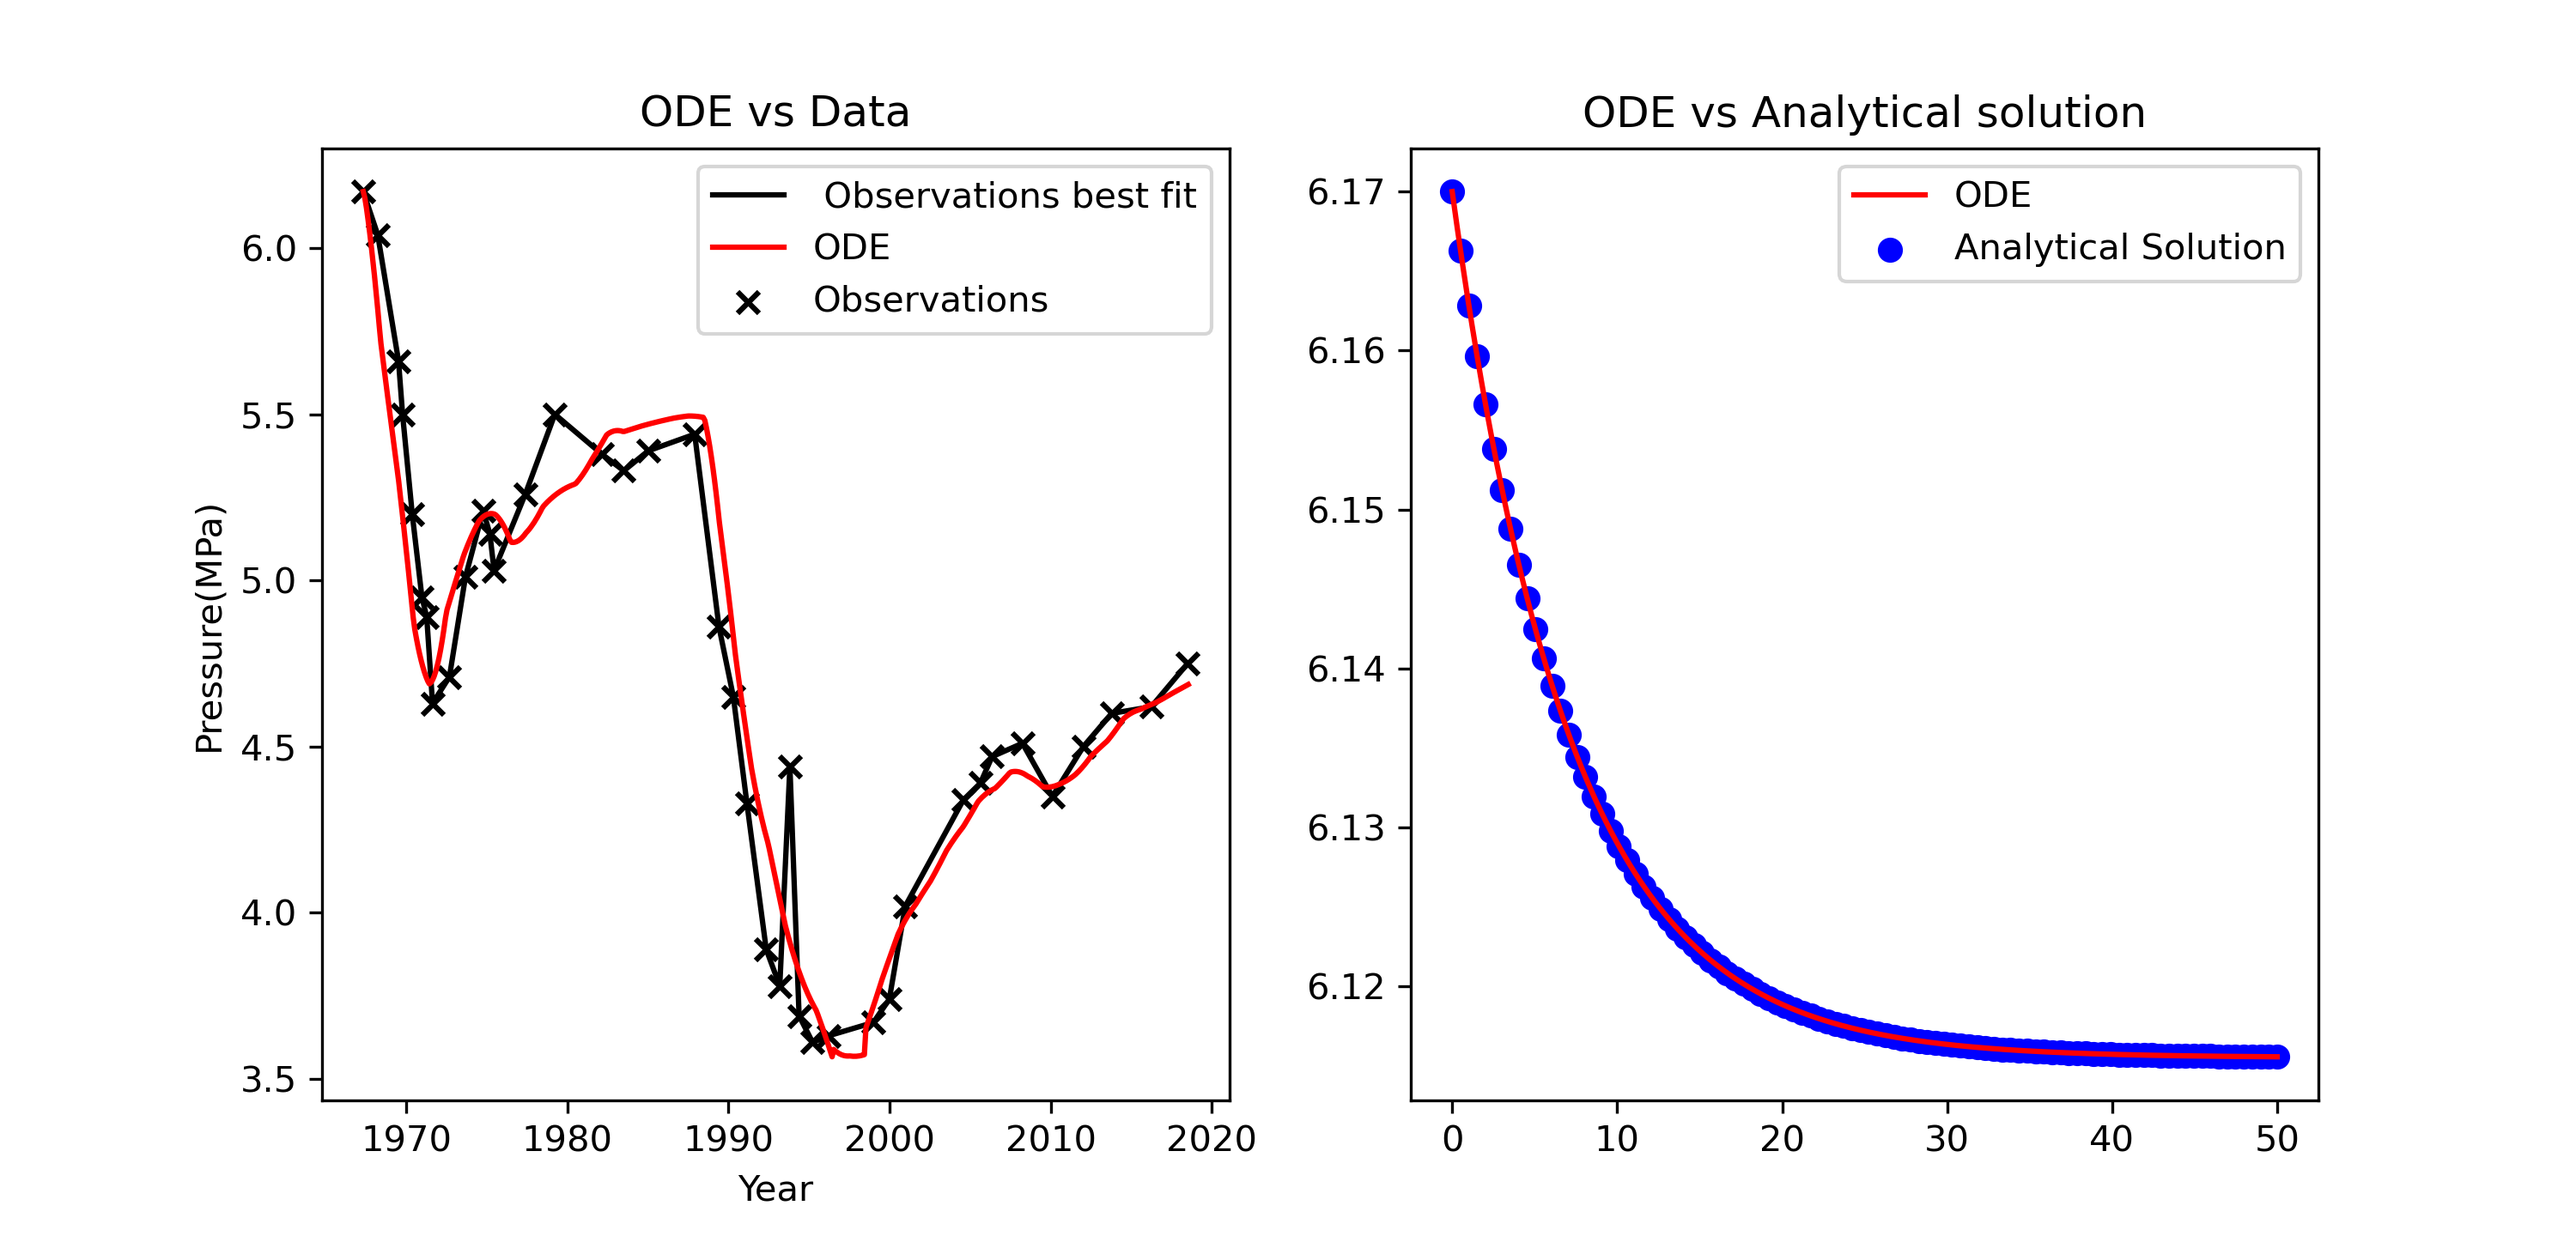
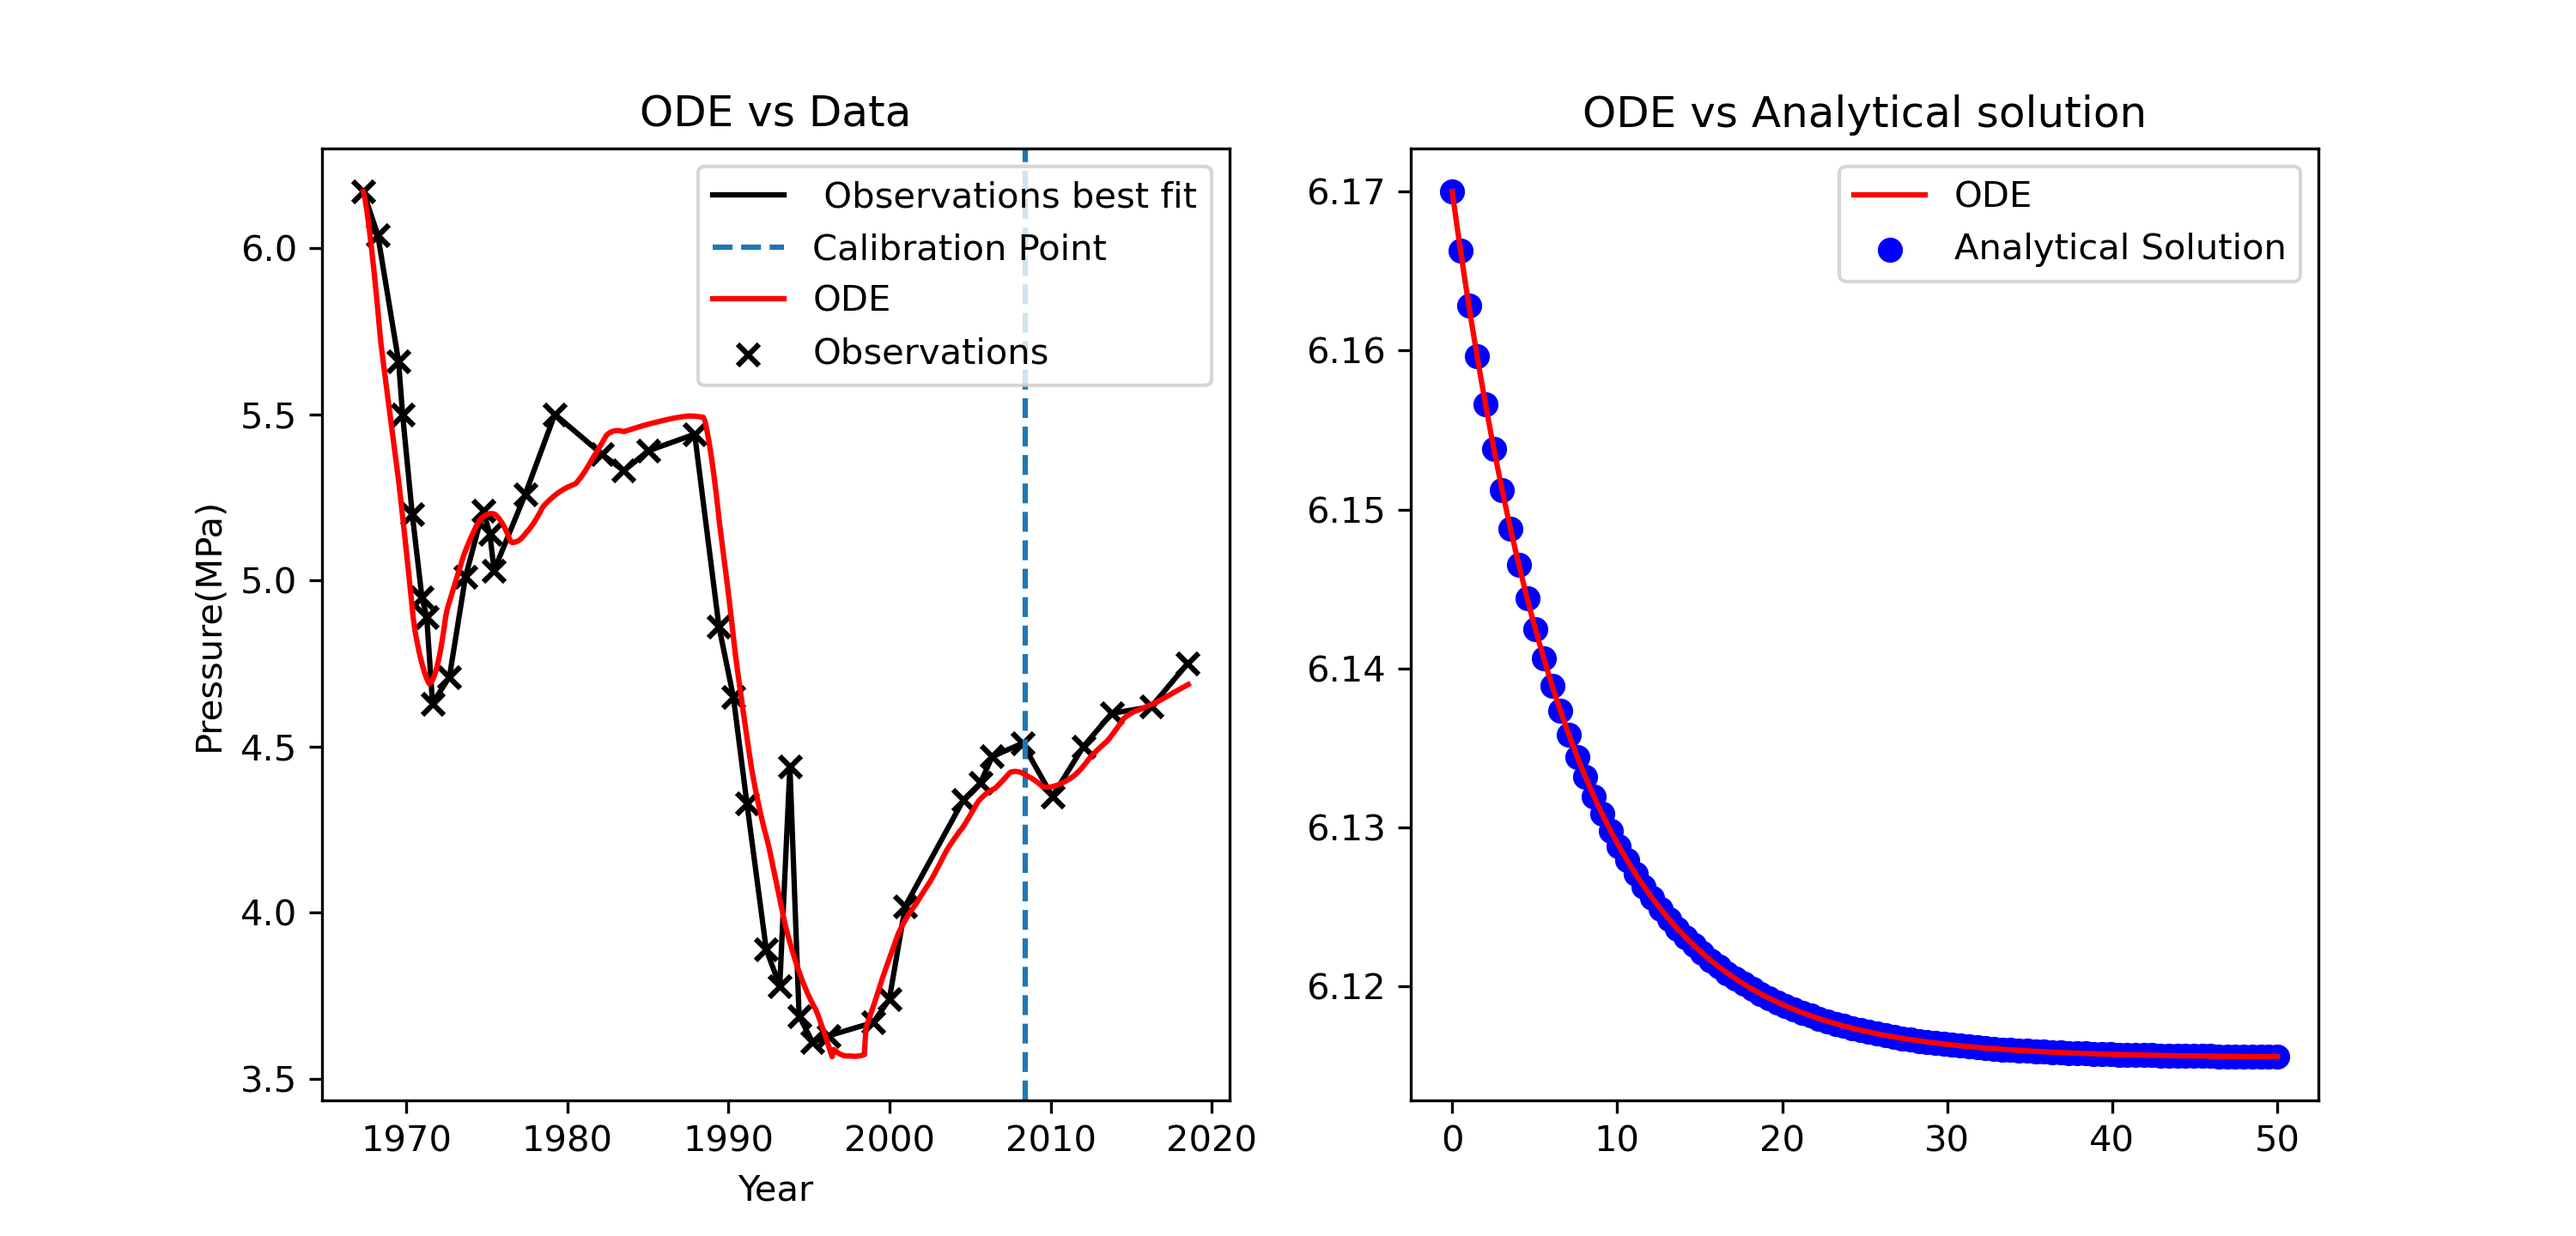
Added calibration point in graph

Changed region(s): [[0.279, 0.1875, 0.434, 0.3125]]

diff --git a/project_1/project_functions.py b/project_1/project_functions.py
@@ -127,7 +127,8 @@ def find_pars():
     # find parameters
     trainingSize = math.ceil(0.8*len(ts))
     parameters, covar = curve_fit(curve_fit_pressure, ts[0:trainingSize], pi[0:trainingSize], pars)
-    return parameters[0], parameters[1], parameters[2]
+    return parameters[0], parameters[1], parameters[2], trainingSize
+
 def improved_euler_step(f, tk, yk, h, y0, q, dq, pars):
 	""" Compute an Improved euler step
 		Parameters
@@ -297,16 +298,16 @@ def plot_pressure_benchmark():
     PLOT DATA vs ODE
     """
     # find correct parameters for a,b and c to fit the model well
-    a, b, c = find_pars()
+    a, b, c, calibrationPoint = find_pars()
     pars = [a,b,c]
-    step = 0.1
     # solve ode using found parameaters
-    t_ode, p_ode = solve_pressure_ode(pressure_ode_model, TIME[0], PRESSURE[0], TIME[-1], step, pars)
+    t_ode, p_ode = solve_pressure_ode(pressure_ode_model, TIME[0], PRESSURE[0], TIME[-1], STEP, pars)
     # save ode to file to use in concentration model
     save_ode_csv(t_ode, p_ode)
     # plot the data observations
     ax1.plot(TIME, PRESSURE,color='k', label =' Observations best fit')
     ax1.scatter(TIME, PRESSURE,color='k', marker = 'x', label ='Observations')
+    ax1.axvline(t_ode[calibrationPoint], linestyle = '--', label = 'Calibration Point')
 
     # plot the model solution
     ax1.plot(t_ode, p_ode, color = 'r', label = 'ODE')
@@ -320,7 +321,7 @@ def plot_pressure_benchmark():
     # get average net production rate
     q = 4
     time = np.linspace(0, 50, 100)
-    t_odeA, p_odeA = solve_pressure_benchmark(pressure_ode_model, time[0], PRESSURE[0], time[-1], step, q, pars)
+    t_odeA, p_odeA = solve_pressure_benchmark(pressure_ode_model, time[0], PRESSURE[0], time[-1], STEP, q, pars)
     p_ana = analytical_solution(time, q, a, b, c)
     ax2.plot(t_odeA, p_odeA, color = 'r', label = 'ODE')
     ax2.scatter(time, p_ana, color = 'b', label = 'Analytical Solution')
@@ -382,15 +383,13 @@ def plot_pressure_benchmark():
     plt.savefig('misfitModel_vs_data',dpi=300)
     plt.show()
 
-
-
     return
 
 '''
 MODEL FORECASTING
 '''
 def plot_model_predictions():
-    a, b, c = find_pars()
+    a, b, c, _ = find_pars()
     pars = [a,b,c]
     step = 0.1
     print(pars)
@@ -404,7 +403,7 @@ def plot_model_predictions():
 
 
     # Set up paramters for forecast
-    a, b, c = find_pars()
+    a, b, c, _ = find_pars()
     pars = [a,b,c]
     endTime = TIME[-1] + 30
     nt = int(np.ceil((endTime-TIME[-1])/step))	# compute number of Euler steps to take
